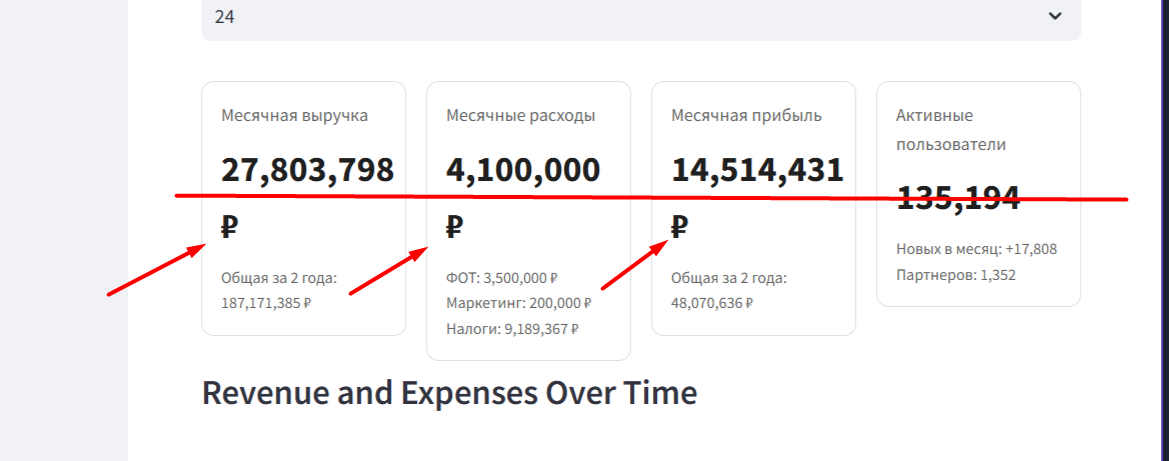
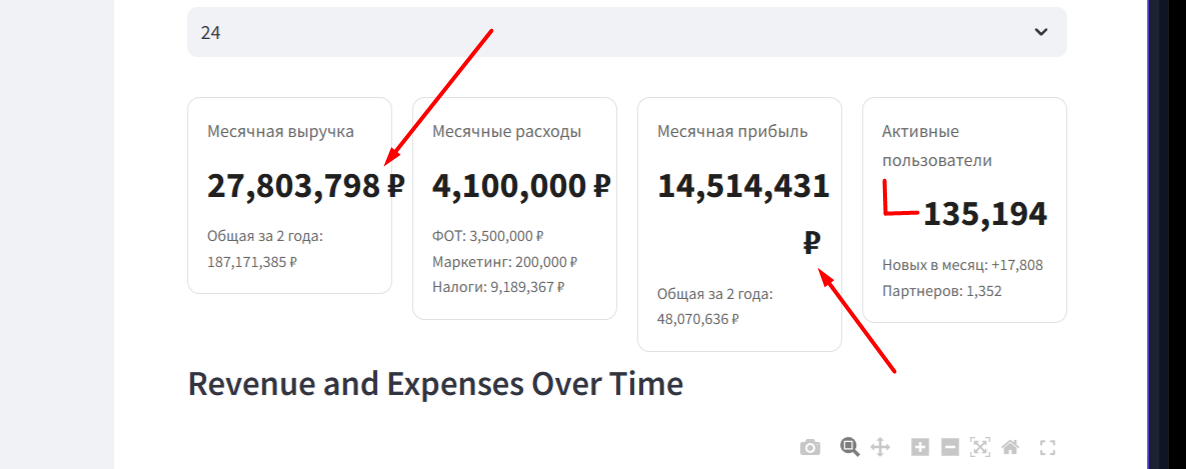
Agent query: Все ли числа теперь выровнены в один ряд и помещаются ли они в свои блоки после уменьшения размера шрифта?
Update Streamlit app styling and currency formatting for metric display.

Screenshot: https://storage.googleapis.com/screenshot-production-us-central1/f5e095a3-f525-4b15-8ae3-3ce0f434ca6e/ea728616-a614-48e9-86cf-8a3aaaca6d89.jpg

diff --git a/main.py b/main.py
@@ -147,13 +147,15 @@ def main():
             margin-bottom: 8px;
         }
         .metric-value {
-                font-size: 1.8em;
-                font-weight: bold;
-                color: #1f1f1f;
-                margin-bottom: 8px;
-                text-align: right;
-                direction: ltr;
-            }
+            font-size: 1.4em;
+            font-weight: bold;
+            color: #1f1f1f;
+            margin-bottom: 8px;
+            text-align: right;
+            white-space: nowrap;
+            overflow: hidden;
+            text-overflow: ellipsis;
+        }
         .metric-subtitle {
             font-size: 0.8em;
             color: #666;
@@ -172,8 +174,8 @@ def main():
             st.markdown(f"""
             <div class="metric-container">
                 <div class="metric-title">Месячная выручка</div>
-                <div class="metric-value">{month_data['revenue']:,.0f}&nbsp;₽</div>
-                <div class="metric-subtitle">Общая за 2 года: {total_revenue:,.0f}&nbsp;₽</div>
+                <div class="metric-value">{month_data['revenue']:,.0f} ₽</div>
+                <div class="metric-subtitle">Общая за 2 года: {total_revenue:,.0f} ₽</div>
             </div>
             """, unsafe_allow_html=True)
         
@@ -181,26 +183,23 @@ def main():
             st.markdown(f"""
             <div class="metric-container">
                 <div class="metric-title">Месячные расходы</div>
-                <div class="metric-value">{month_data['expenses']:,.0f}&nbsp;₽</div>
+                <div class="metric-value">{month_data['expenses']:,.0f} ₽</div>
                 <div class="metric-details">
-                    ФОТ: {month_data['fot']:,.0f}&nbsp;₽<br>
-                    Маркетинг: {month_data['marketing']:,.0f}&nbsp;₽<br>
-                    Налоги: {month_data.get('taxes', 0):,.0f}&nbsp;₽
+                    <div style="text-align: right">ФОТ: {month_data['fot']:,.0f} ₽</div>
+                    <div style="text-align: right">Маркетинг: {month_data['marketing']:,.0f} ₽</div>
+                    <div style="text-align: right">Налоги: {month_data.get('taxes', 0):,.0f} ₽</div>
                 </div>
             </div>
             """, unsafe_allow_html=True)
             
         with col3:
-            st.markdown("""
+            st.markdown(f"""
             <div class="metric-container">
                 <div class="metric-title">Месячная прибыль</div>
-                <div class="metric-value">{}</div>
-                <div class="metric-subtitle">Общая за 2 года: {}</div>
+                <div class="metric-value">{month_data['profit']:,.0f} ₽</div>
+                <div class="metric-subtitle">Общая за 2 года: {total_profit:,.0f} ₽</div>
             </div>
-            """.format(
-                format_money(month_data['profit']),
-                format_money(total_profit)
-            ), unsafe_allow_html=True)
+            """, unsafe_allow_html=True)
             
         with col4:
             st.markdown(f"""
